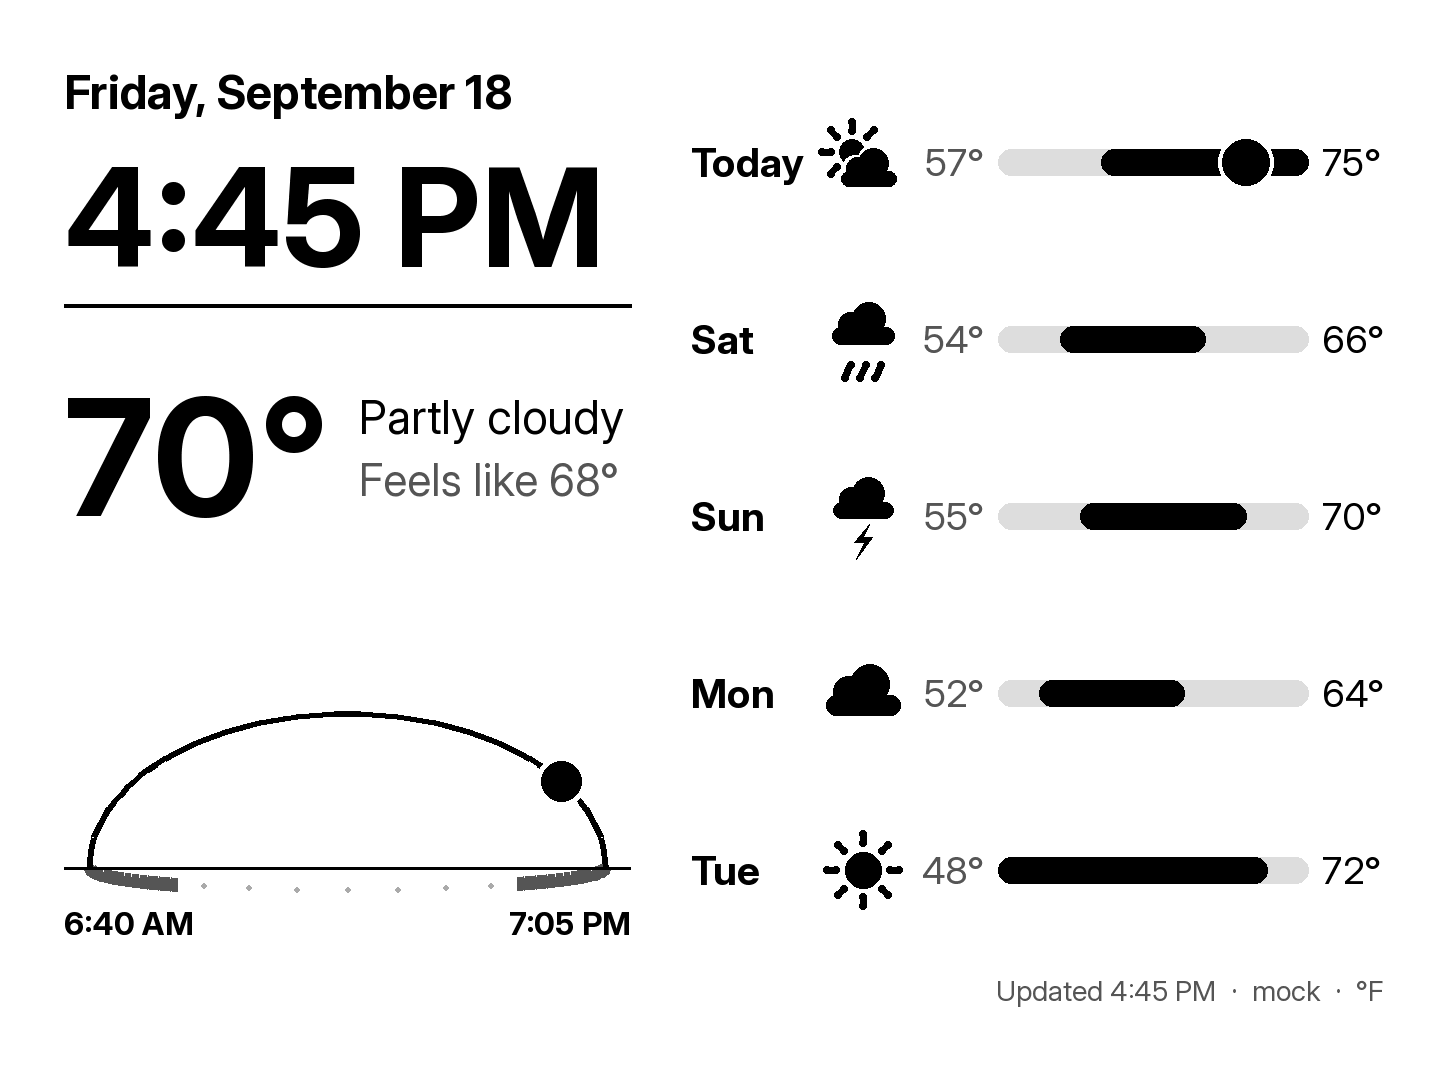
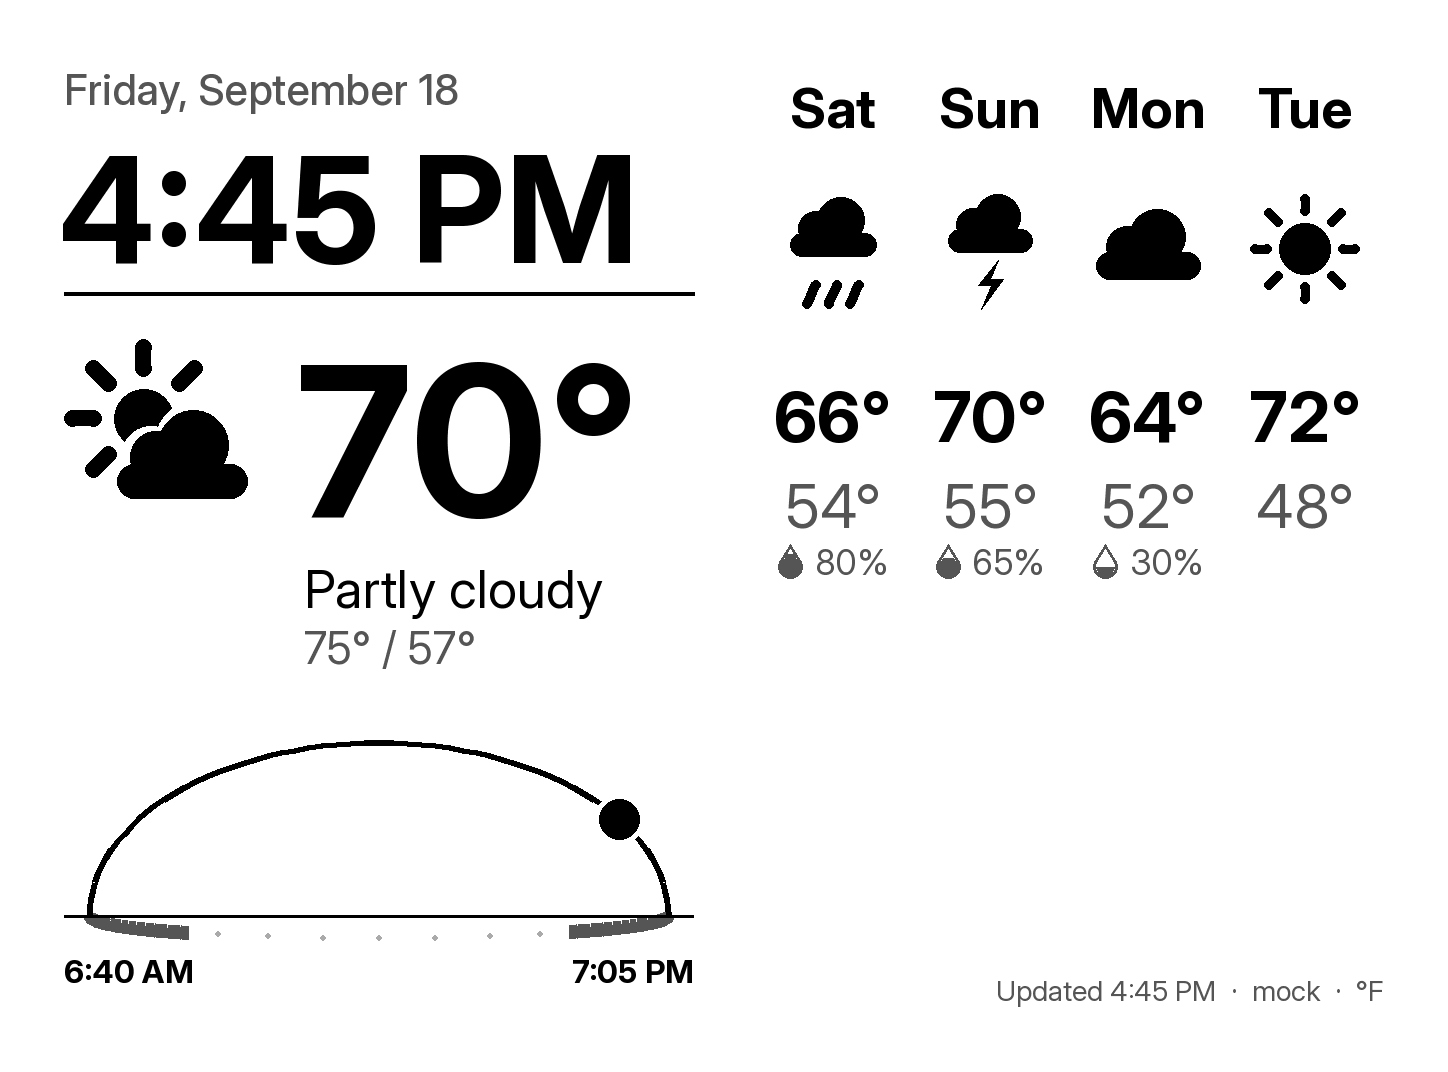
feat(skins): minimal redesigned as the quiet end of the range
Date, clock, the current condition as an icon beside the temperature with
the range under it, one short sun arc, and the next four days as columns
(weekday, icon, high and low, a rain drop from 20 % up). Landscape keeps
the clock, temperature, and arc in the left column and the four days as
tall columns on the right. The skin now draws on the shared Canvas, so its
private frame helper is gone; Canvas.day_columns is the new shared block.
Goldens and README frames regenerated on purpose.

diff --git a/src/paperwhite_weather/skins/minimal.py b/src/paperwhite_weather/skins/minimal.py
@@ -1,8 +1,8 @@
-"""Minimal skin: a large clock and temperature, today's range, the sun arc, a compact forecast.
+"""Minimal skin: the quiet end of the range.
 
-Two layouts share the same building blocks: a single column in portrait and two columns in
-landscape, so the landscape frame uses the full width instead of being a scaled-down
-portrait page.
+Date, a large clock, the current temperature with its icon and condition, today's range,
+the sun arc, and four days as columns. Portrait stacks them; landscape puts the clock,
+the temperature, and the arc in a left column and the four days in a right column.
 """
 
 from __future__ import annotations
@@ -10,176 +10,111 @@ from __future__ import annotations
 from datetime import datetime
 from typing import ClassVar
 
-from PIL import Image, ImageDraw
+from PIL import Image
 
 from paperwhite_weather.config import Settings
-from paperwhite_weather.fonts import load_font
-from paperwhite_weather.models import WeatherSnapshot
-from paperwhite_weather.skins.base import (
-    BLACK,
-    CONDITION_LABELS,
-    DARK_GRAY,
-    LIGHT_GRAY,
-    WHITE,
-    fit_font,
-    format_clock,
-    format_temperature,
-)
-from paperwhite_weather.skins.sun_arc import draw_sun_arc
-from paperwhite_weather.skins.temperature_bars import draw_temperature_bars, rows_for_days
+from paperwhite_weather.models import DailyForecast, WeatherSnapshot
+from paperwhite_weather.skins.base import BLACK, DARK_GRAY, PALE_GRAY
+from paperwhite_weather.skins.common import Canvas
 
-#: The layout is designed for the Paperwhite 3 canvas (1072x1448 portrait, 1448x1072
-#: landscape) and scaled down uniformly when the actual canvas is smaller.
-_DESIGN_PORTRAIT = (1072, 1448)
-_DESIGN_LANDSCAPE = (1448, 1072)
 _FORECAST_DAYS = 4
 
 
 class MinimalSkin:
-    """Large typography, no icons yet, readable from across a room."""
+    """Large typography and one graphic, readable from across a room."""
 
     name: ClassVar[str] = "minimal"
 
     def compose(
-        self,
-        snapshot: WeatherSnapshot,
-        settings: Settings,
-        now: datetime,
-        size: tuple[int, int],
+        self, snapshot: WeatherSnapshot, settings: Settings, now: datetime, size: tuple[int, int]
     ) -> Image.Image:
         """See :meth:`paperwhite_weather.skins.base.Skin.compose`."""
-        width, height = size
-        image = Image.new("L", size, WHITE)
-        frame = _Frame(image, snapshot, settings, now)
-        if width > height:
-            frame.compose_landscape()
+        c = Canvas(size, snapshot, settings, now)
+        if c.landscape:
+            self._landscape(c)
         else:
-            frame.compose_portrait()
-        return image
+            self._portrait(c)
+        c.footer()
+        return c.image
 
+    def _portrait(self, c: Canvas) -> None:
+        m = c.margin
+        w = c.content_width
+        y = self._masthead(c, m, m, w, clock_size=220)
+        y = self._today(c, m, y + c.px(40), w, icon_size=250, temperature_size=250, wide=True)
+        y = c.sun_arc((m, y + c.px(24), c.width - m, y + c.px(24) + c.px(200)))
+        y = c.rule(m, y + c.px(36), w, PALE_GRAY, 3) + c.px(30)
+        c.day_columns((m, y, c.width - m, c.height - m - c.px(40)), self._days(c))
 
-class _Frame:
-    """One frame being drawn; holds the shared state the layout helpers need."""
+    def _landscape(self, c: Canvas) -> None:
+        m = c.margin
+        gutter = c.px(60)
+        column = round((c.content_width - gutter) * 0.5)
+        y = self._masthead(c, m, m, column, clock_size=190)
+        y = self._today(c, m, y + c.px(40), column, icon_size=210, temperature_size=210)
+        c.sun_arc((m, y + c.px(20), m + column, c.height - m - c.px(20)))
+        x = m + column + gutter
+        c.day_columns((x, m + c.px(10), c.width - m, c.height - m - c.px(50)), self._days(c))
 
-    def __init__(
+    # Blocks; each returns the y below what it drew.
+
+    def _masthead(self, c: Canvas, x: int, y: int, width: int, clock_size: int) -> int:
+        c.text((x, y), c.date_line(), "medium", 42, fill=DARK_GRAY, anchor="la", max_width=width)
+        y += c.px(56)
+        used = c.text((x - c.px(6), y), c.clock(), "bold", clock_size, anchor="la", max_width=width)
+        y += round(used * 1.18)
+        return c.rule(x, y, width, BLACK, 4)
+
+    def _today(
         self,
-        image: Image.Image,
-        snapshot: WeatherSnapshot,
-        settings: Settings,
-        now: datetime,
-    ) -> None:
-        self.draw = ImageDraw.Draw(image)
-        self.width, self.height = image.size
-        self.snapshot = snapshot
-        self.now = now
-        self.tz = snapshot.location.tzinfo
-        self.time_format = settings.display.time_format
-        design = _DESIGN_LANDSCAPE if self.width > self.height else _DESIGN_PORTRAIT
-        self.scale = min(self.width / design[0], self.height / design[1])
-        self.margin = round(0.06 * min(self.width, self.height))
+        c: Canvas,
+        x: int,
+        y: int,
+        width: int,
+        icon_size: int,
+        temperature_size: int,
+        wide: bool = False,
+    ) -> int:
+        """Icon, the temperature beside it, then the condition and today's range.
 
-    def px(self, design_px: float) -> int:
-        """Scale a design measurement to canvas pixels, never below one pixel."""
-        return max(1, round(design_px * self.scale))
-
-    # Layouts
-
-    def compose_portrait(self) -> None:
-        x = self.margin
-        content_width = self.width - 2 * self.margin
-        y = self.margin
-        y = self.masthead(x, y, content_width, clock_size=230)
-        y = self.rule(x, y, content_width, BLACK, 4)
-        y = self.lead(x, y + self.px(40), content_width)
-        y = self.sun_arc(x, y + self.px(30), content_width, self.px(250))
-        y = self.rule(x, y + self.px(30), content_width, LIGHT_GRAY, 2)
-        self.temperature_bars(x, y + self.px(24), content_width, long_names=True)
-        self.footer()
-
-    def compose_landscape(self) -> None:
-        gutter = self.px(60)
-        left_width = round((self.width - 2 * self.margin - gutter) * 0.45)
-        right_x = self.margin + left_width + gutter
-        right_width = self.width - self.margin - right_x
-
-        y = self.margin
-        y = self.masthead(self.margin, y, left_width, clock_size=250)
-        y = self.rule(self.margin, y, left_width, BLACK, 4)
-        y = self.lead(self.margin, y + self.px(50), left_width)
-        self.sun_arc(self.margin, y + self.px(70), left_width, self.px(300))
-
-        self.temperature_bars(right_x, self.margin + self.px(10), right_width)
-        self.footer()
-
-    # Building blocks; each returns the y coordinate below what it drew.
-
-    def masthead(self, x: int, y: int, width: int, clock_size: int) -> int:
-        self.draw.text(
-            (x, y),
-            f"{self.now:%A}, {self.now:%B} {self.now.day}",
-            font=load_font("bold", self.px(46)),
-            fill=BLACK,
+        The range goes on the same line as the condition, right-aligned, when ``wide``;
+        otherwise on the line below.
+        """
+        current = c.snapshot.current
+        icon = c.px(icon_size)
+        c.icon(current.condition, (x, y, x + icon, y + icon), night=c.night)
+        tx = x + icon + c.px(30)
+        c.text(
+            (tx - c.px(8), y - c.px(24)),
+            c.temperature(current.temperature),
+            "bold",
+            temperature_size,
             anchor="la",
+            max_width=width - icon - c.px(30),
         )
-        y += self.px(70)
-        clock = format_clock(self.now, self.time_format)
-        font = fit_font(self.draw, clock, "bold", self.px(clock_size), width)
-        self.draw.text((x, y), clock, font=font, fill=BLACK, anchor="la")
-        return y + round(font.size * 1.25)
-
-    def rule(self, x: int, y: int, width: int, fill: int, thickness: int) -> int:
-        self.draw.line([(x, y), (x + width, y)], fill=fill, width=self.px(thickness))
-        return y + self.px(thickness)
-
-    def lead(self, x: int, y: int, width: int) -> int:
-        """Current temperature with the condition and feels-like beside it."""
-        current = self.snapshot.current
-        temperature = format_temperature(current.temperature)
-        font = fit_font(self.draw, temperature, "bold", self.px(210), width * 0.5)
-        self.draw.text((x, y), temperature, font=font, fill=BLACK, anchor="la")
-        detail_x = x + round(self.draw.textlength(temperature, font=font)) + self.px(30)
-        detail_width = x + width - detail_x
-        lines = [(CONDITION_LABELS[current.condition], 56, BLACK)]
-        if current.feels_like is not None:
-            lines.append((f"Feels like {format_temperature(current.feels_like)}", 48, DARK_GRAY))
-        line_y = y + self.px(30)
-        for text, size, fill in lines:
-            line_font = fit_font(self.draw, text, "regular", self.px(size), detail_width)
-            self.draw.text((detail_x, line_y), text, font=line_font, fill=fill, anchor="la")
-            line_y += round(line_font.size * 1.4)
-        return max(y + round(font.size * 1.3), line_y)
-
-    def sun_arc(self, x: int, y: int, width: int, height: int) -> int:
-        """The day's sun arc: dawn to dusk, sun marked, sunrise and sunset labeled."""
-        draw_sun_arc(
-            self.draw,
-            (x, y, x + width, y + height),
-            self.snapshot.sun,
-            self.now,
-            self.tz,
-            self.time_format,
-            self.scale,
+        line_y = y + icon + c.px(10)
+        c.text(
+            (tx, line_y),
+            c.condition_label(current.condition),
+            "regular",
+            52,
+            anchor="la",
+            max_width=width - icon - c.px(30),
         )
-        return y + height
-
-    def temperature_bars(self, x: int, y: int, width: int, long_names: bool = False) -> int:
-        """Today and the next days as bars on one scale, down to the footer."""
-        rows = rows_for_days(self.snapshot, self.snapshot.daily[: _FORECAST_DAYS + 1], long_names)
-        bottom = self.height - self.margin - self.px(50)
-        draw_temperature_bars(self.draw, (x, y, x + width, bottom), rows, self.scale)
-        return bottom
-
-    def footer(self) -> None:
-        """Data freshness and units, bottom right, so stale data is obvious."""
-        snapshot = self.snapshot
-        text = (
-            f"Updated {format_clock(snapshot.fetched_at.astimezone(self.tz), self.time_format)}"
-            f"  ·  {snapshot.source}  ·  {snapshot.units.temperature_symbol}"
+        if wide:
+            c.text(
+                (x + width, line_y + c.px(4)),
+                c.range_text(c.snapshot.today),
+                "regular",
+                48,
+                fill=DARK_GRAY,
+                anchor="ra",
+            )
+            return line_y + c.px(66)
+        c.text(
+            (tx, line_y + c.px(64)), c.range_text(c.snapshot.today), "regular", 44, fill=DARK_GRAY
         )
-        self.draw.text(
-            (self.width - self.margin, self.height - self.margin),
-            text,
-            font=load_font("regular", self.px(28)),
-            fill=DARK_GRAY,
-            anchor="rd",
-        )
+        return line_y + c.px(64) + c.px(58)
+
+    def _days(self, c: Canvas) -> list[DailyForecast]:
+        return c.snapshot.daily[1 : _FORECAST_DAYS + 1]

diff --git a/src/paperwhite_weather/skins/common.py b/src/paperwhite_weather/skins/common.py
@@ -13,7 +13,7 @@ from PIL import Image, ImageDraw
 
 from paperwhite_weather.config import Settings
 from paperwhite_weather.fonts import Weight, load_font
-from paperwhite_weather.icons import draw_icon
+from paperwhite_weather.icons import draw_drop, draw_icon
 from paperwhite_weather.models import Condition, DailyForecast, WeatherSnapshot
 from paperwhite_weather.skins.base import (
     BLACK,
@@ -143,6 +143,79 @@ class Canvas:
             self.scale,
         )
         return bottom
+
+    def day_columns(self, box: tuple[float, float, float, float], days: list[DailyForecast]) -> int:
+        """Draw ``days`` as equal columns: weekday, icon, high and low, rain when likely.
+
+        A short box puts "high / low" on one line under a modest icon; a tall box (more
+        than 500 design pixels) stacks the high over the low under a large icon. Rain (a
+        drop and the probability) appears only from 20 % up, so a dry week stays quiet.
+        Returns the bottom of what was drawn.
+        """
+        left, top, right, bottom = box
+        if not days:
+            return round(top)
+        column = (right - left) / len(days)
+        tall = bottom - top > self.px(500)
+        # A tall box grows the icons and the spacing with its height, up to half again.
+        grow = min(1.25, (bottom - top) / self.px(560)) if tall else 1.0
+        icon = min(self.px((170 if tall else 120) * grow), column * 0.8, (bottom - top) * 0.4)
+        y_icon = top + self.px((90 if tall else 64) * grow)
+        y_value = y_icon + icon + self.px((50 if tall else 22) * grow)
+        y_rain = y_value + self.px((150 if tall else 70) * grow)
+        for k, day in enumerate(days):
+            cx = left + column * (k + 0.5)
+            self.text((cx, top), f"{day.date:%a}", "bold", 44 * grow if tall else 40, anchor="ma")
+            self.icon(day.condition, (cx - icon / 2, y_icon, cx + icon / 2, y_icon + icon))
+            if tall:
+                self.text(
+                    (cx, y_value),
+                    self.temperature(day.temperature_high),
+                    "bold",
+                    56 * grow,
+                    anchor="ma",
+                )
+                self.text(
+                    (cx, y_value + self.px(76 * grow)),
+                    self.temperature(day.temperature_low),
+                    "regular",
+                    48 * grow,
+                    fill=DARK_GRAY,
+                    anchor="ma",
+                )
+            else:
+                self.text(
+                    (cx, y_value),
+                    self.range_text(day),
+                    "medium",
+                    40,
+                    anchor="ma",
+                    max_width=column * 0.95,
+                )
+            probability = day.precipitation_probability
+            if probability is not None and probability >= 20:
+                drop = self.px(28 * grow)
+                x = cx - self.px(34 * grow)
+                draw_drop(
+                    self.draw,
+                    (
+                        round(x - drop / 2),
+                        round(y_rain - drop / 2),
+                        round(x + drop / 2),
+                        round(y_rain + drop / 2),
+                    ),
+                    probability / 100,
+                    DARK_GRAY,
+                )
+                self.text(
+                    (cx - self.px(14 * grow), y_rain),
+                    f"{round(probability)}%",
+                    "regular",
+                    28 * grow,
+                    fill=DARK_GRAY,
+                    anchor="lm",
+                )
+        return round(y_rain + self.px(20))
 
     # Formatting shortcuts
 

diff --git a/tests/test_render.py b/tests/test_render.py
@@ -186,11 +186,11 @@ def test_minimal_landscape_is_two_columns(snapshot: WeatherSnapshot, settings: S
     settings = settings.model_copy(update={"display": display})
     width, height = display.canvas_size
     image = get_skin("minimal").compose(snapshot, settings, FIXED_NOW, (width, height))
-    # Gutter position mirrors MinimalSkin.compose_landscape: margin + 45% of the content
-    # width; probe a narrow strip there over the top 85% of the canvas (above the footer).
+    # Gutter position mirrors MinimalSkin._landscape: two equal columns around a gutter;
+    # probe a narrow strip there over the top 85% of the canvas (above the footer).
     margin = round(0.06 * min(width, height))
     gutter = round(60 * min(width / 1448, height / 1072))
-    left_width = round((width - 2 * margin - gutter) * 0.45)
+    left_width = round((width - 2 * margin - gutter) * 0.5)
     x = margin + left_width + gutter // 2
     strip = image.crop((x - 4, 0, x + 4, round(height * 0.85)))
     assert strip.getextrema() == (255, 255), "ink found in the gutter between the two columns"

diff --git a/CHANGELOG.md b/CHANGELOG.md
@@ -23,7 +23,11 @@ Format: [Keep a Changelog](https://keepachangelog.com/en/1.1.0/); versioning: [S
   The recorded Open-Meteo fixture was refreshed (2026-09-19) to include the hourly block.
 - `minimal` skin: large clock and temperature, today's range, the sun arc, and a
   four-day forecast. Portrait is a single column; landscape is a two-column layout that
-  uses the full width.
+  uses the full width. Redesigned as the quiet end of the range: the current condition
+  as an icon beside the temperature, the range under it, one short sun arc, and the
+  next four days as columns (weekday, icon, high and low, a rain drop from 20 % up)
+  instead of the bar chart, which stays in `forecast` and `weather-station`. The skin
+  now draws on the shared `Canvas` (`Canvas.day_columns` is the new block).
 - Four more skins, each with portrait and landscape layouts: `newspaper` (serif front
   page), `weather-station` (metrics grid), `big-clock`, and `forecast`. Shared drawing
   helpers in `skins/common.py`; DejaVu Serif bundled alongside DejaVu Sans.
